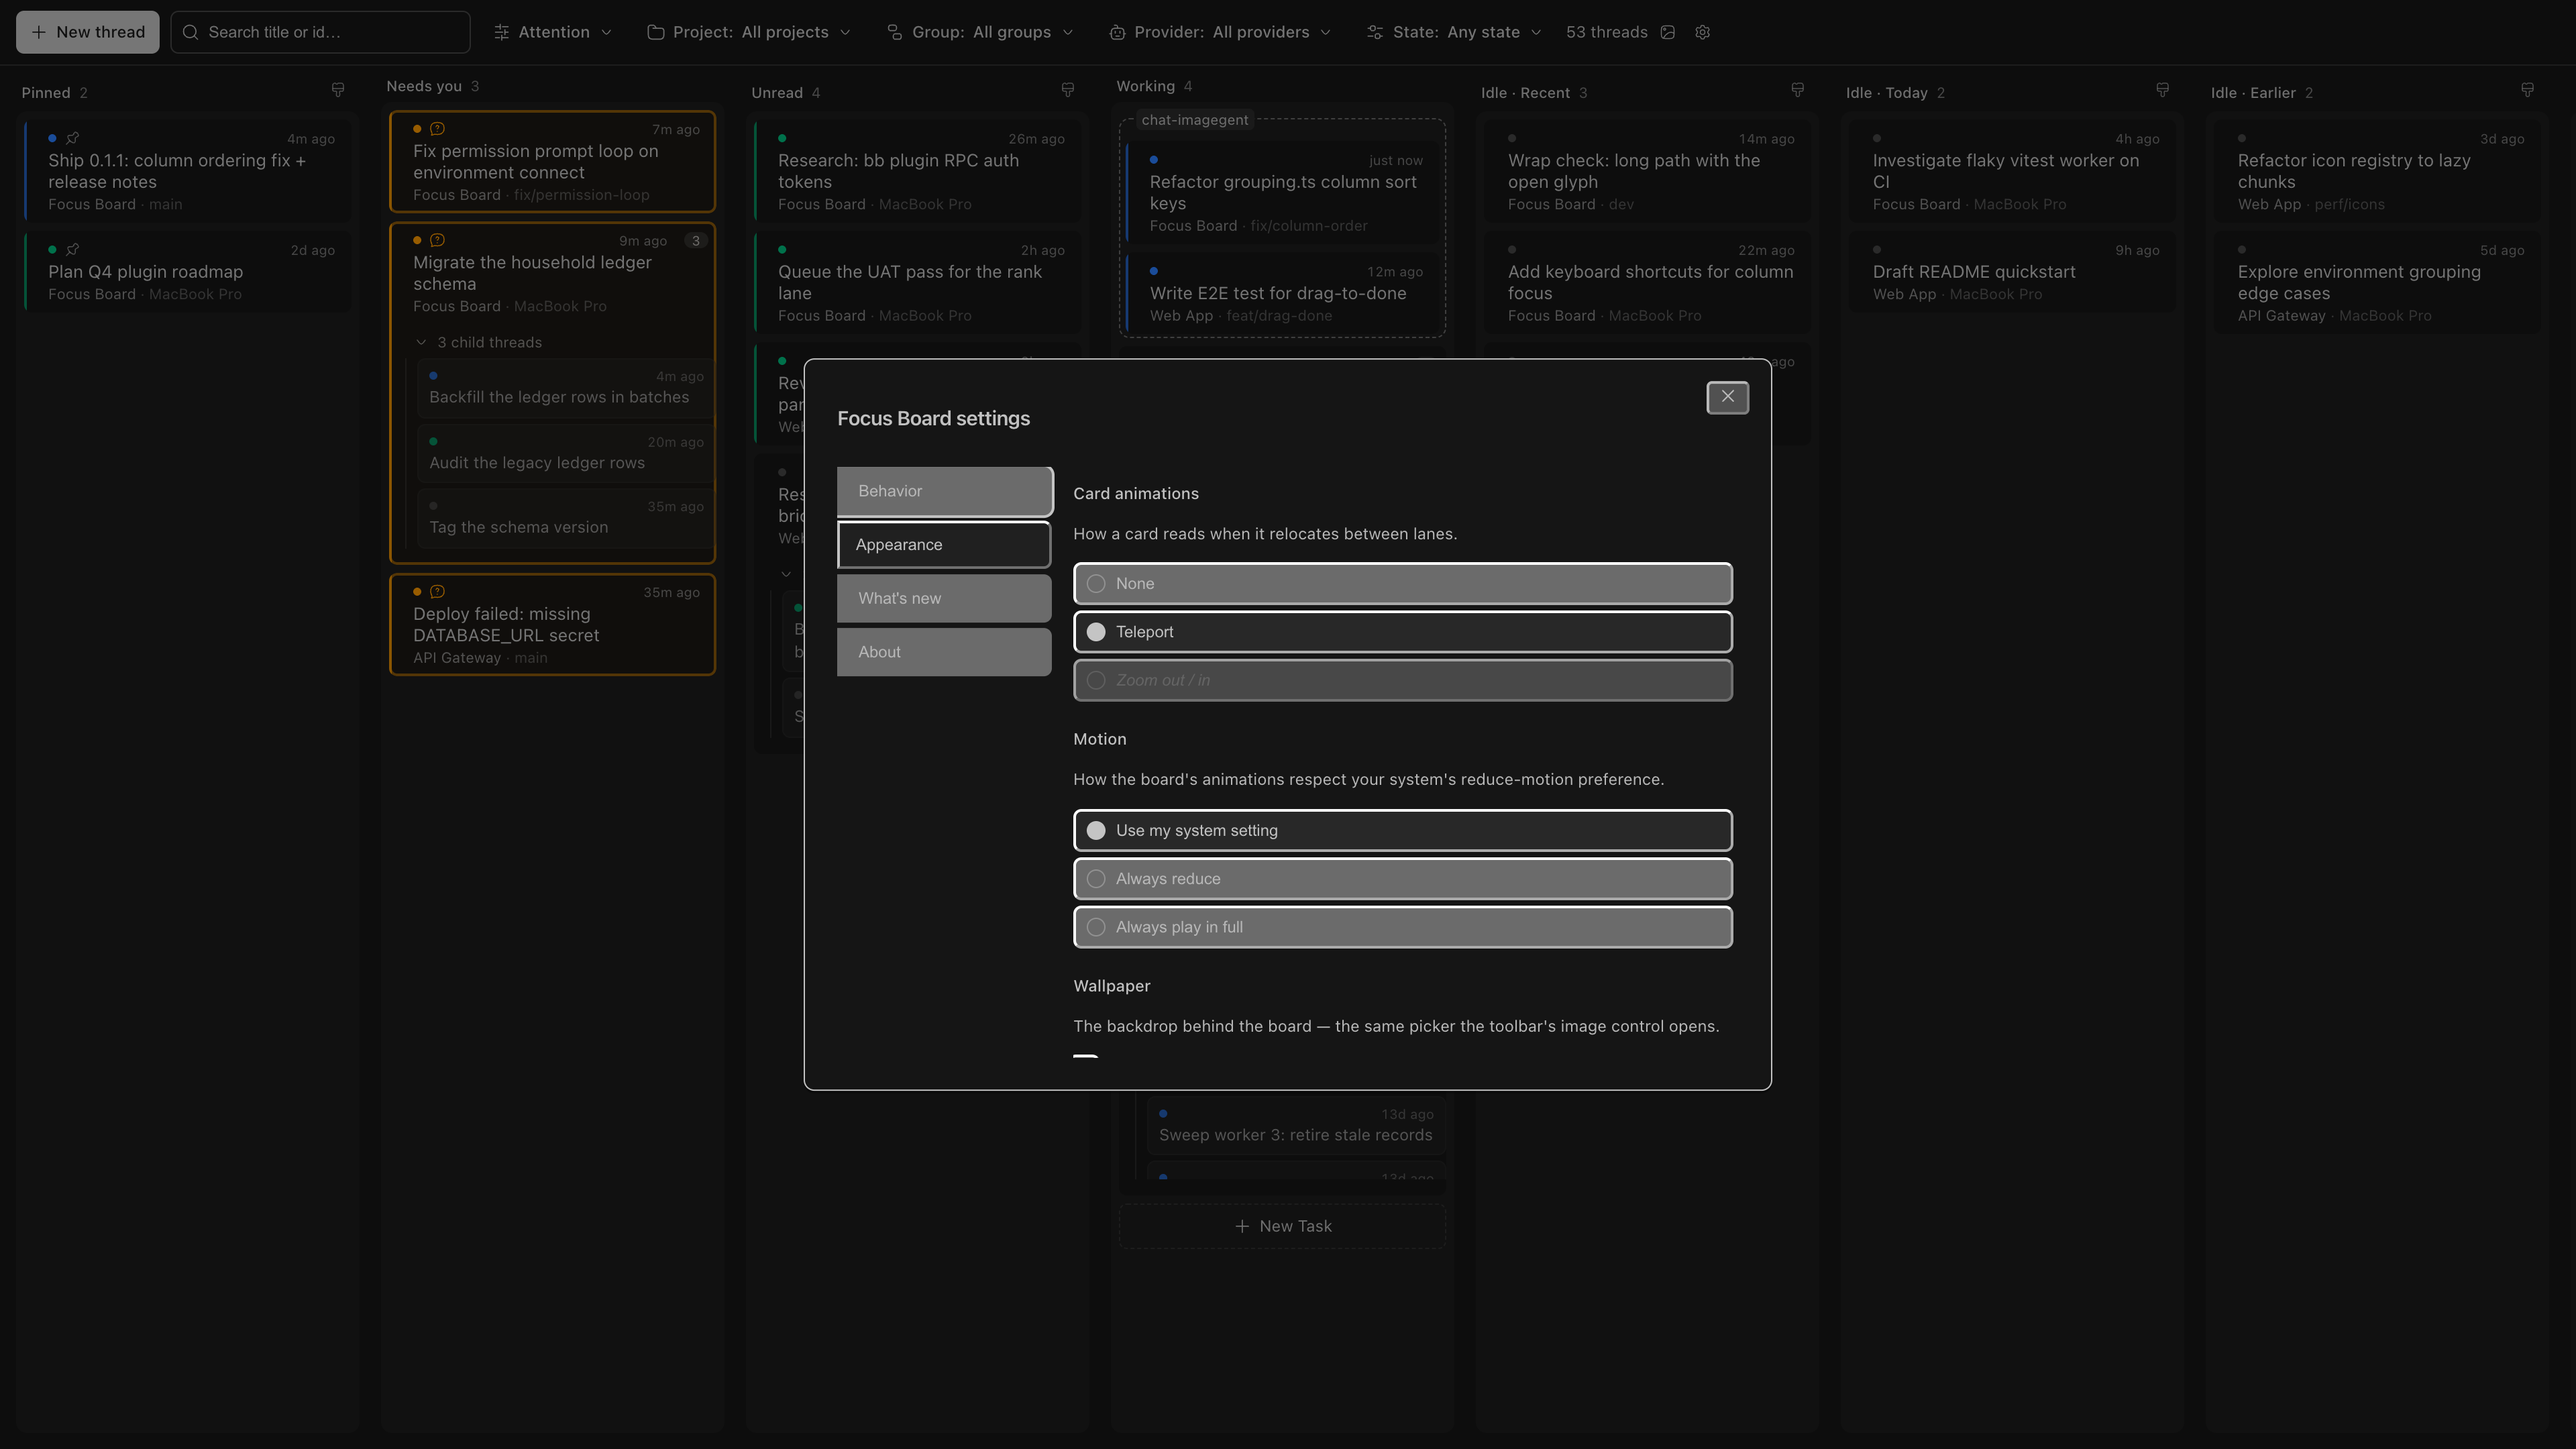
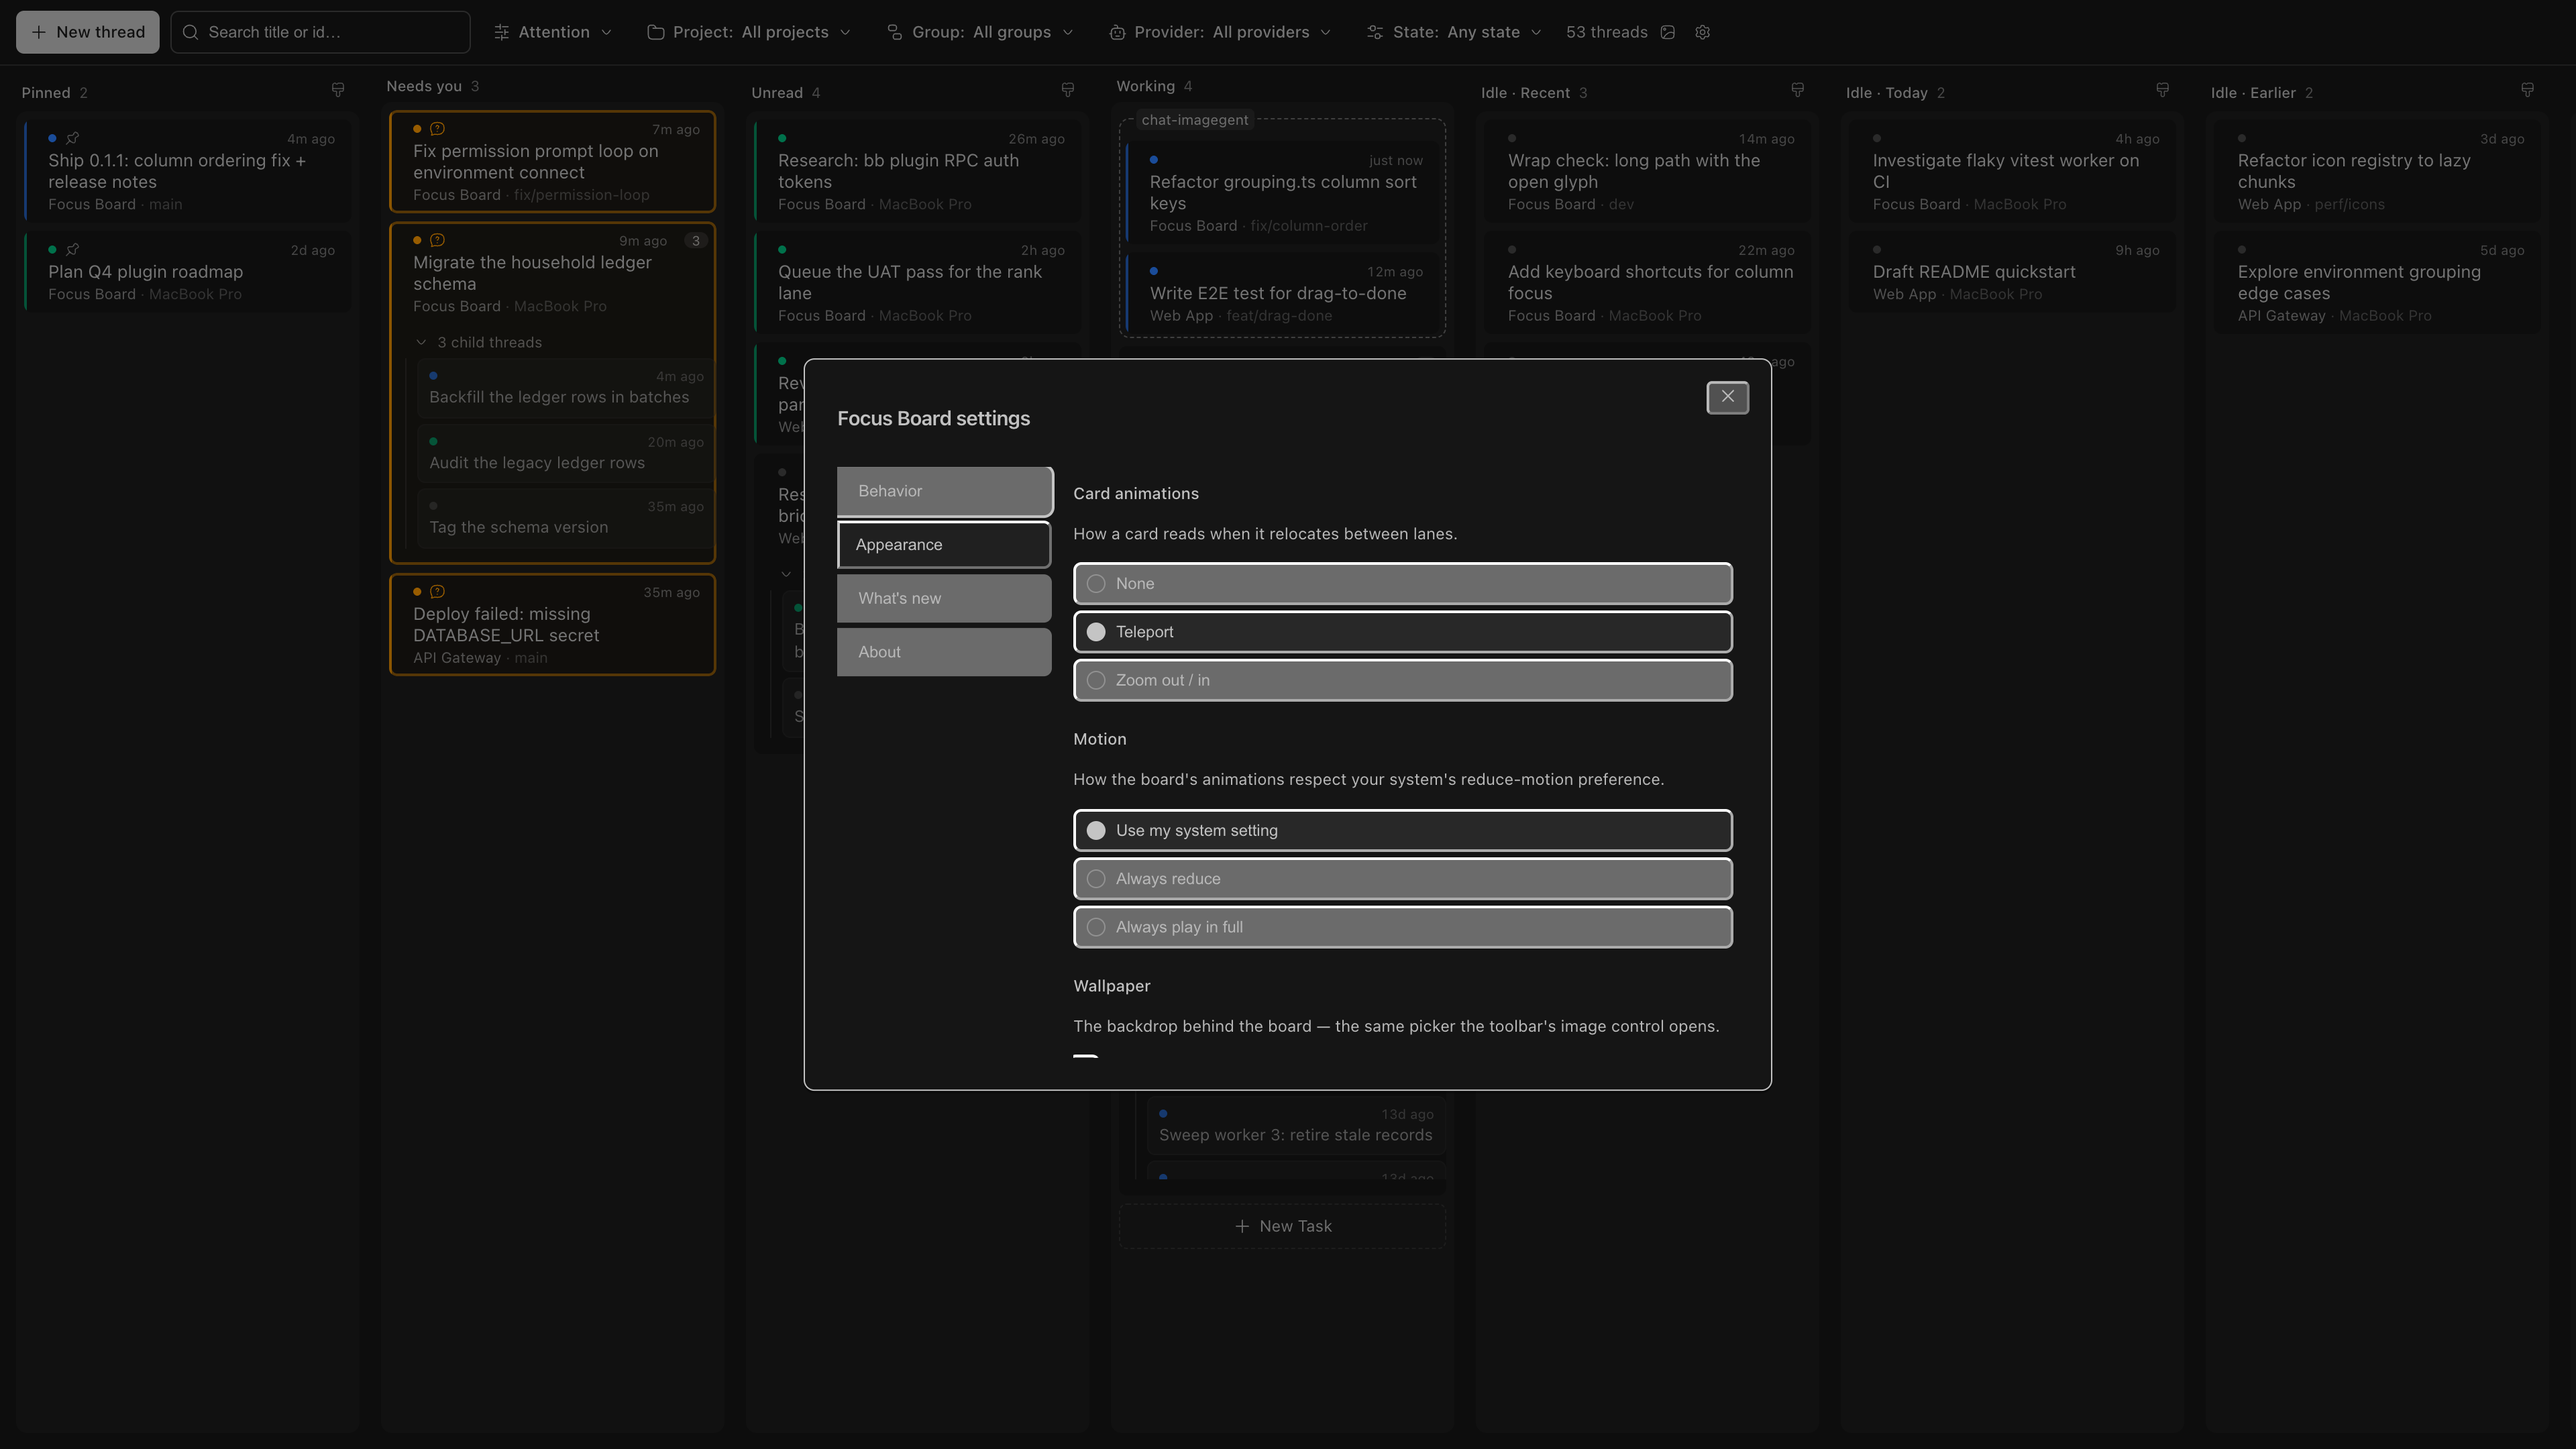
The zoom choice is live: cardTransport 'zoom' maps to the merged transportVariant
The transporter thread's build shipped the zoom variant (portal
recede/grow) while this branch flew; resolve the board.tsx rebase with the
override + variant coexisting, enable the Appearance tab's Zoom out / in
radio, map the choice to transportVariant in the app wiring, and update
the unit contracts and the headless driver's radio expectations.

Changed region(s): [[0.4062, 0.4343, 0.6875, 0.4963]]

diff --git a/tests/settings-modal.test.tsx b/tests/settings-modal.test.tsx
@@ -250,20 +250,35 @@ describe("settings modal: Appearance tab", () => {
     const none = screen.getByRole("radio", { name: "None" });
     fireEvent.click(none);
     expect(onSetCardTransport).toHaveBeenCalledWith("none");
+    fireEvent.click(screen.getByRole("radio", { name: "Zoom out / in" }));
+    expect(onSetCardTransport).toHaveBeenCalledWith("zoom");
   });
 
-  it("the zoom choice exists but is not yet livable — disabled with a coming-soon name", () => {
-    renderModal({ tab: "appearance", cardTransport: "teleport" });
-    const zoom = screen.getByRole("radio", { name: /Zoom out \/ in/ });
-    expect(zoom.getAttribute("aria-disabled")).toBe("true");
-    fireEvent.click(zoom);
-    // A disabled radio must not report a selection: the card transport can
-    // never end on a value the board cannot run.
-    expect(
-      document
-        .querySelector('[role="radiogroup"][aria-label="Card animations"]')
-        ?.querySelectorAll('[role="radio"][aria-checked="true"]'),
-    ).toHaveLength(1);
+  it("the zoom choice selects and deselects like the others (it maps to the navbar's zoom variant)", () => {
+    // The build runs every transport variant (zoom included), so the tab
+    // never offers a choice the board cannot play.
+    render(
+      <SettingsModal
+        open={true}
+        tab="appearance"
+        entries={ENTRIES}
+        escStopsRunningThread={undefined}
+        cardTransport="teleport"
+        motionPref="system"
+        wallpaper={NULL_WALLPAPER}
+        onSetEscStopsRunningThread={vi.fn()}
+        onSetCardTransport={vi.fn()}
+        onSetMotionPref={vi.fn()}
+        onWallpaperChange={vi.fn()}
+        onOpenChange={vi.fn()}
+      />,
+    );
+    const zoom = screen.getByRole("radio", { name: "Zoom out / in" });
+    expect(zoom.getAttribute("aria-disabled")).toBeNull();
+    const checked = document
+      .querySelector('[role="radiogroup"][aria-label="Card animations"]')
+      ?.querySelectorAll('[role="radio"][aria-checked="true"]');
+    expect(checked).toHaveLength(1);
   });
 
   it("offers the motion preference with the system's media query selected by default", () => {

diff --git a/app.tsx b/app.tsx
@@ -2514,6 +2514,7 @@ function BoardPage({ subPath }: { subPath: string }) {
             activeThreadId={openThreadId}
             cardTransport={cardTransport}
             motionPref={motionPref}
+            transportVariant={cardTransport === "zoom" ? "zoom" : undefined}
             doneIds={doneIds}
             nestedChildrenByParent={nestedChildrenByParent}
             childCountByParent={assembly?.childCountByParent ?? new Map()}

diff --git a/components/settings-modal.tsx b/components/settings-modal.tsx
@@ -176,8 +176,7 @@ function AppearanceContent({
           {
             value: "zoom",
             name: "Zoom out / in",
-            title: "Coming soon — the zoom read is not built yet.",
-            disabled: true,
+            title: "The card shrinks into its old slot's portal and grows back as the new slot opens.",
           },
         ]}
         selected={cardTransport}

diff --git a/docs/uat/whats-new.md b/docs/uat/whats-new.md
@@ -1,6 +1,6 @@
 # UAT report
 
-_Generated 2026-10-11T01:01:37.871Z by `npm run uat`._
+_Generated 2026-10-11T01:04:32.446Z by `npm run uat`._
 
 ## whats-new
 
